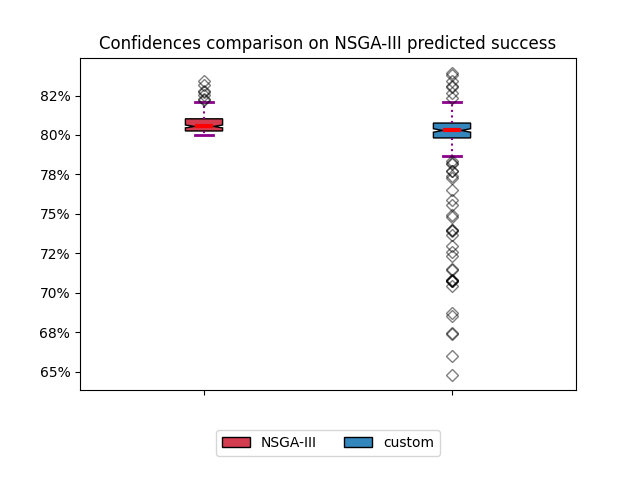
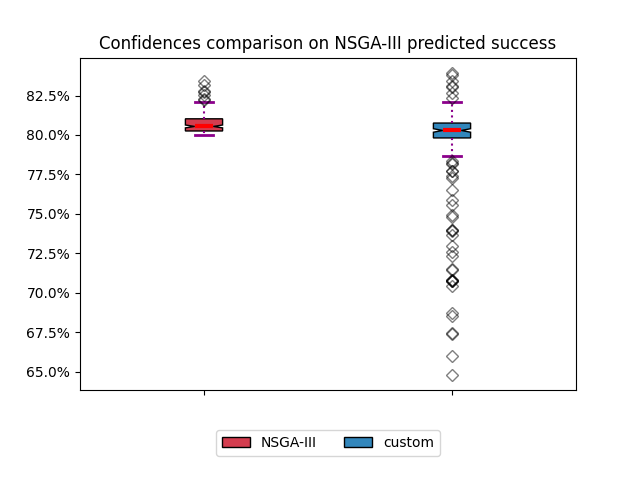
small fixes on formatting plots (percentages)

diff --git a/main/resultAnalyzer.py b/main/resultAnalyzer.py
@@ -62,7 +62,7 @@ def personalizedBoxPlot(data, name, columnNames=None, percentage=False, path=Non
 
     # y-axis
     if percentage:
-        ax1.yaxis.set_major_formatter(ticker.PercentFormatter(xmax=1.0, decimals=0))
+        ax1.yaxis.set_major_formatter(ticker.PercentFormatter(xmax=1.0, decimals=1))
     if seconds:
         def y_fmt(x, y):
             return str(int(x)) + ' s'
